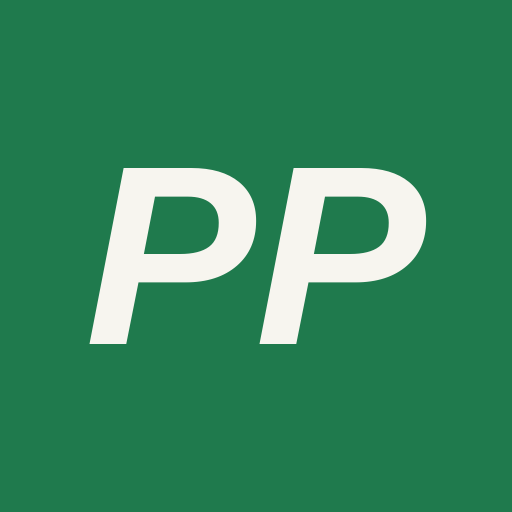
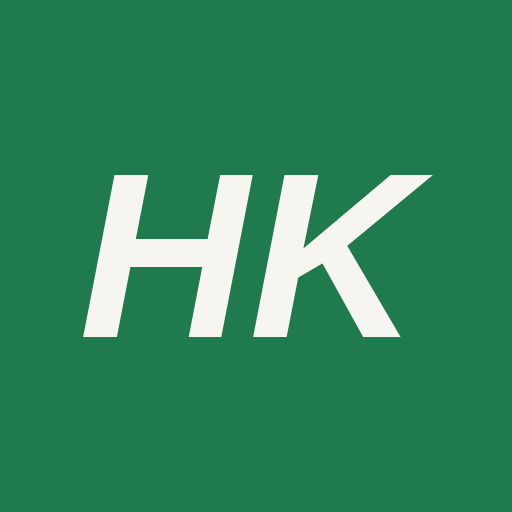
Rename app to HostKit
Claude-Session: https://claude.ai/code/session_01Y8CeV5zgBPuDa9rtfqjAg1

Changed region(s): [[0.1562, 0.3125, 0.8438, 0.6875]]

diff --git a/index.html b/index.html
@@ -3,14 +3,14 @@
 <head>
 <meta charset="utf-8">
 <meta name="viewport" content="width=device-width, initial-scale=1">
-<title>PartyPilot</title>
+<title>HostKit: Plan it. Shop it. Host it.</title>
 <meta name="description" content="Plan the food, decorations and drinks for any party, with a live budget and ready-to-order shopping lists.">
 <meta name="theme-color" content="#1f7a4d">
 <link rel="manifest" href="/manifest.json">
 <link rel="icon" href="/icon-192.png">
 <link rel="apple-touch-icon" href="/icon-180.png">
 <meta name="apple-mobile-web-app-capable" content="yes">
-<meta name="apple-mobile-web-app-title" content="PartyPilot">
+<meta name="apple-mobile-web-app-title" content="HostKit">
 <script>window.va = window.va || function () { (window.vaq = window.vaq || []).push(arguments); };</script>
 <script defer src="/_vercel/insights/script.js"></script>
 <link rel="preconnect" href="https://fonts.googleapis.com">
@@ -89,8 +89,8 @@ td a{color:var(--accent);font-size:12px;text-decoration:none;margin-left:6px}
 </head>
 <body>
 <header>
-  <h1 class="brand">Party<span>Pilot</span></h1>
-  <p class="tag">Tell us the party. We'll plan the food, the look and the bar, then fill your carts.</p>
+  <h1 class="brand">Host<span>Kit</span></h1>
+  <p class="tag"><b>Plan it. Shop it. Host it.</b> Tell us the party. We'll plan the food, the look and the bar, then fill your carts.</p>
   <span class="demo">Beta · prices are estimates</span>
 </header>
 
@@ -528,7 +528,9 @@ $('copyBtn').addEventListener('click',async()=>{
 });
 
 // ---------- Save, share, reopen ----------
-const KEY='partypilot_parties';
+const KEY='hostkit_parties';
+// Carry over parties saved under the old name
+try{ const old=localStorage.getItem('partypilot_parties'); if(old&&!localStorage.getItem(KEY)){ localStorage.setItem(KEY,old); localStorage.removeItem('partypilot_parties'); } }catch(e){}
 function flash(msg){ $('toast').textContent=msg; setTimeout(()=>$('toast').textContent='',2200); }
 function snapshot(){ return {occ:S.occ,guests:S.guests,hours:S.hours,budget:S.budget,drink:S.drink,pick:{...S.pick},date:$('date').value,zip:$('zip').value}; }
 function encode(st){ return btoa(unescape(encodeURIComponent(JSON.stringify(st)))); }

diff --git a/sw.js b/sw.js
@@ -1,4 +1,4 @@
-const CACHE = 'partypilot-v3';
+const CACHE = 'hostkit-v1';
 const FILES = ['/', '/index.html', '/manifest.json', '/icon-192.png', '/icon-512.png'];
 
 self.addEventListener('install', e => {

diff --git a/README.md b/README.md
@@ -1,4 +1,6 @@
-# PartyPilot
+# HostKit
+
+*Plan it. Shop it. Host it.*
 
 Plan a party in minutes: describe it, pick food, decorations and drinks, see a live budget, and get shopping lists split by store.
 
